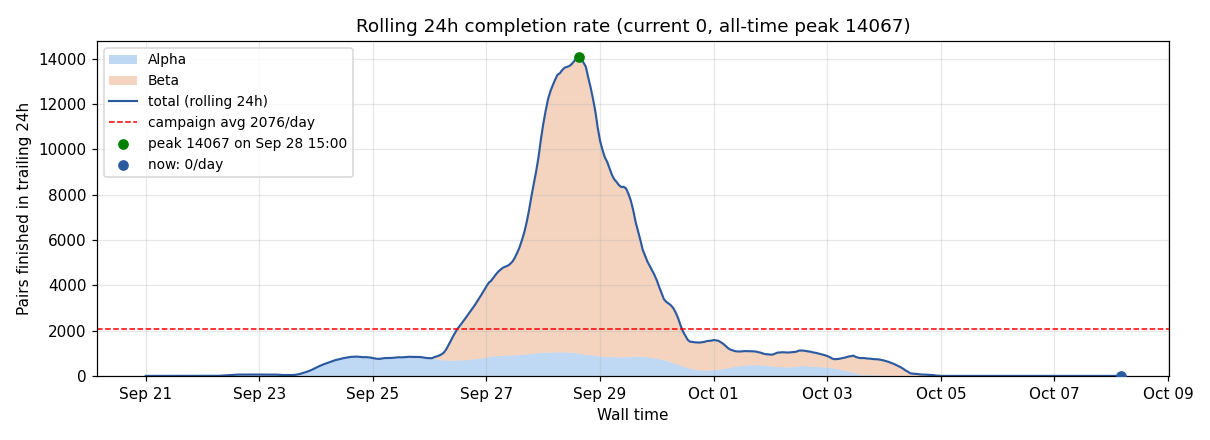
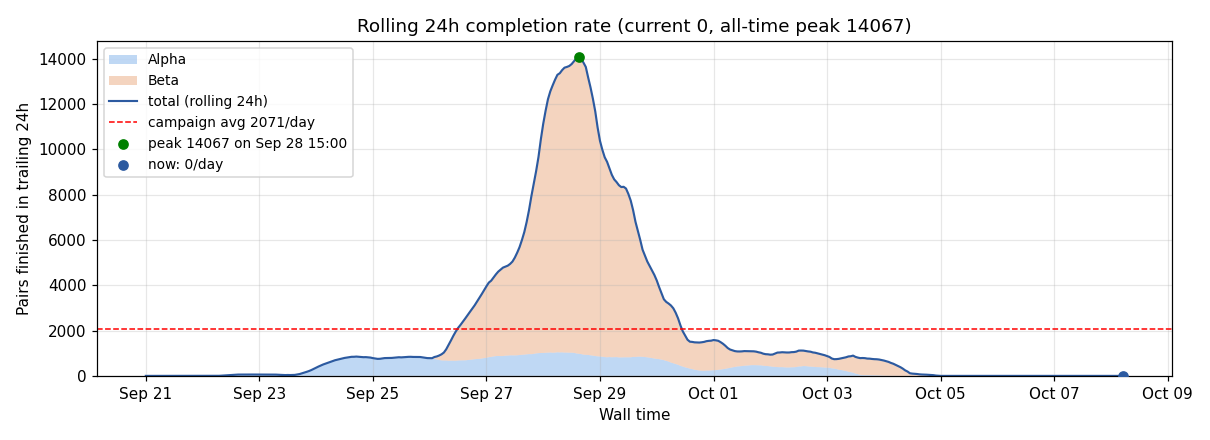
auto: 2026-10-08 04:36:18

diff --git a/index.html b/index.html
@@ -24,7 +24,7 @@ tr:nth-child(even) { background: #fafafa; }
 </style>
 </head><body>
 <h1>AF3 Campaign Dashboard</h1>
-<p class="stamp">Last updated: <strong>2026-10-08 03:35 EDT</strong> · regenerated on the cluster hourly · this page auto-reloads every 30 min</p>
+<p class="stamp">Last updated: <strong>2026-10-08 04:37 EDT</strong> · regenerated on the cluster hourly · this page auto-reloads every 30 min</p>
 
 <div class="cards">
   <div class="card"><div class="v">35,750</div><div class="l">Total COMPLETED pairs</div></div>
@@ -38,7 +38,7 @@ tr:nth-child(even) { background: #fafafa; }
 </div>
 
 <h2>Beta (GB200) jobs</h2>
-<p class='stamp'>Beta snapshot 0 min old (refreshed every 10 min from the Beta login node).</p>
+<p class='stamp'>Beta snapshot 2 min old (refreshed every 10 min from the Beta login node).</p>
 <div class="queue-table">
 <table><thead><tr><th>Job</th><th>State</th><th>Elapsed</th><th>Left</th><th>Pairs done</th><th>Node / reason</th></tr></thead>
 <tbody><tr><td colspan=6><em>none</em></td></tr></tbody></table>
